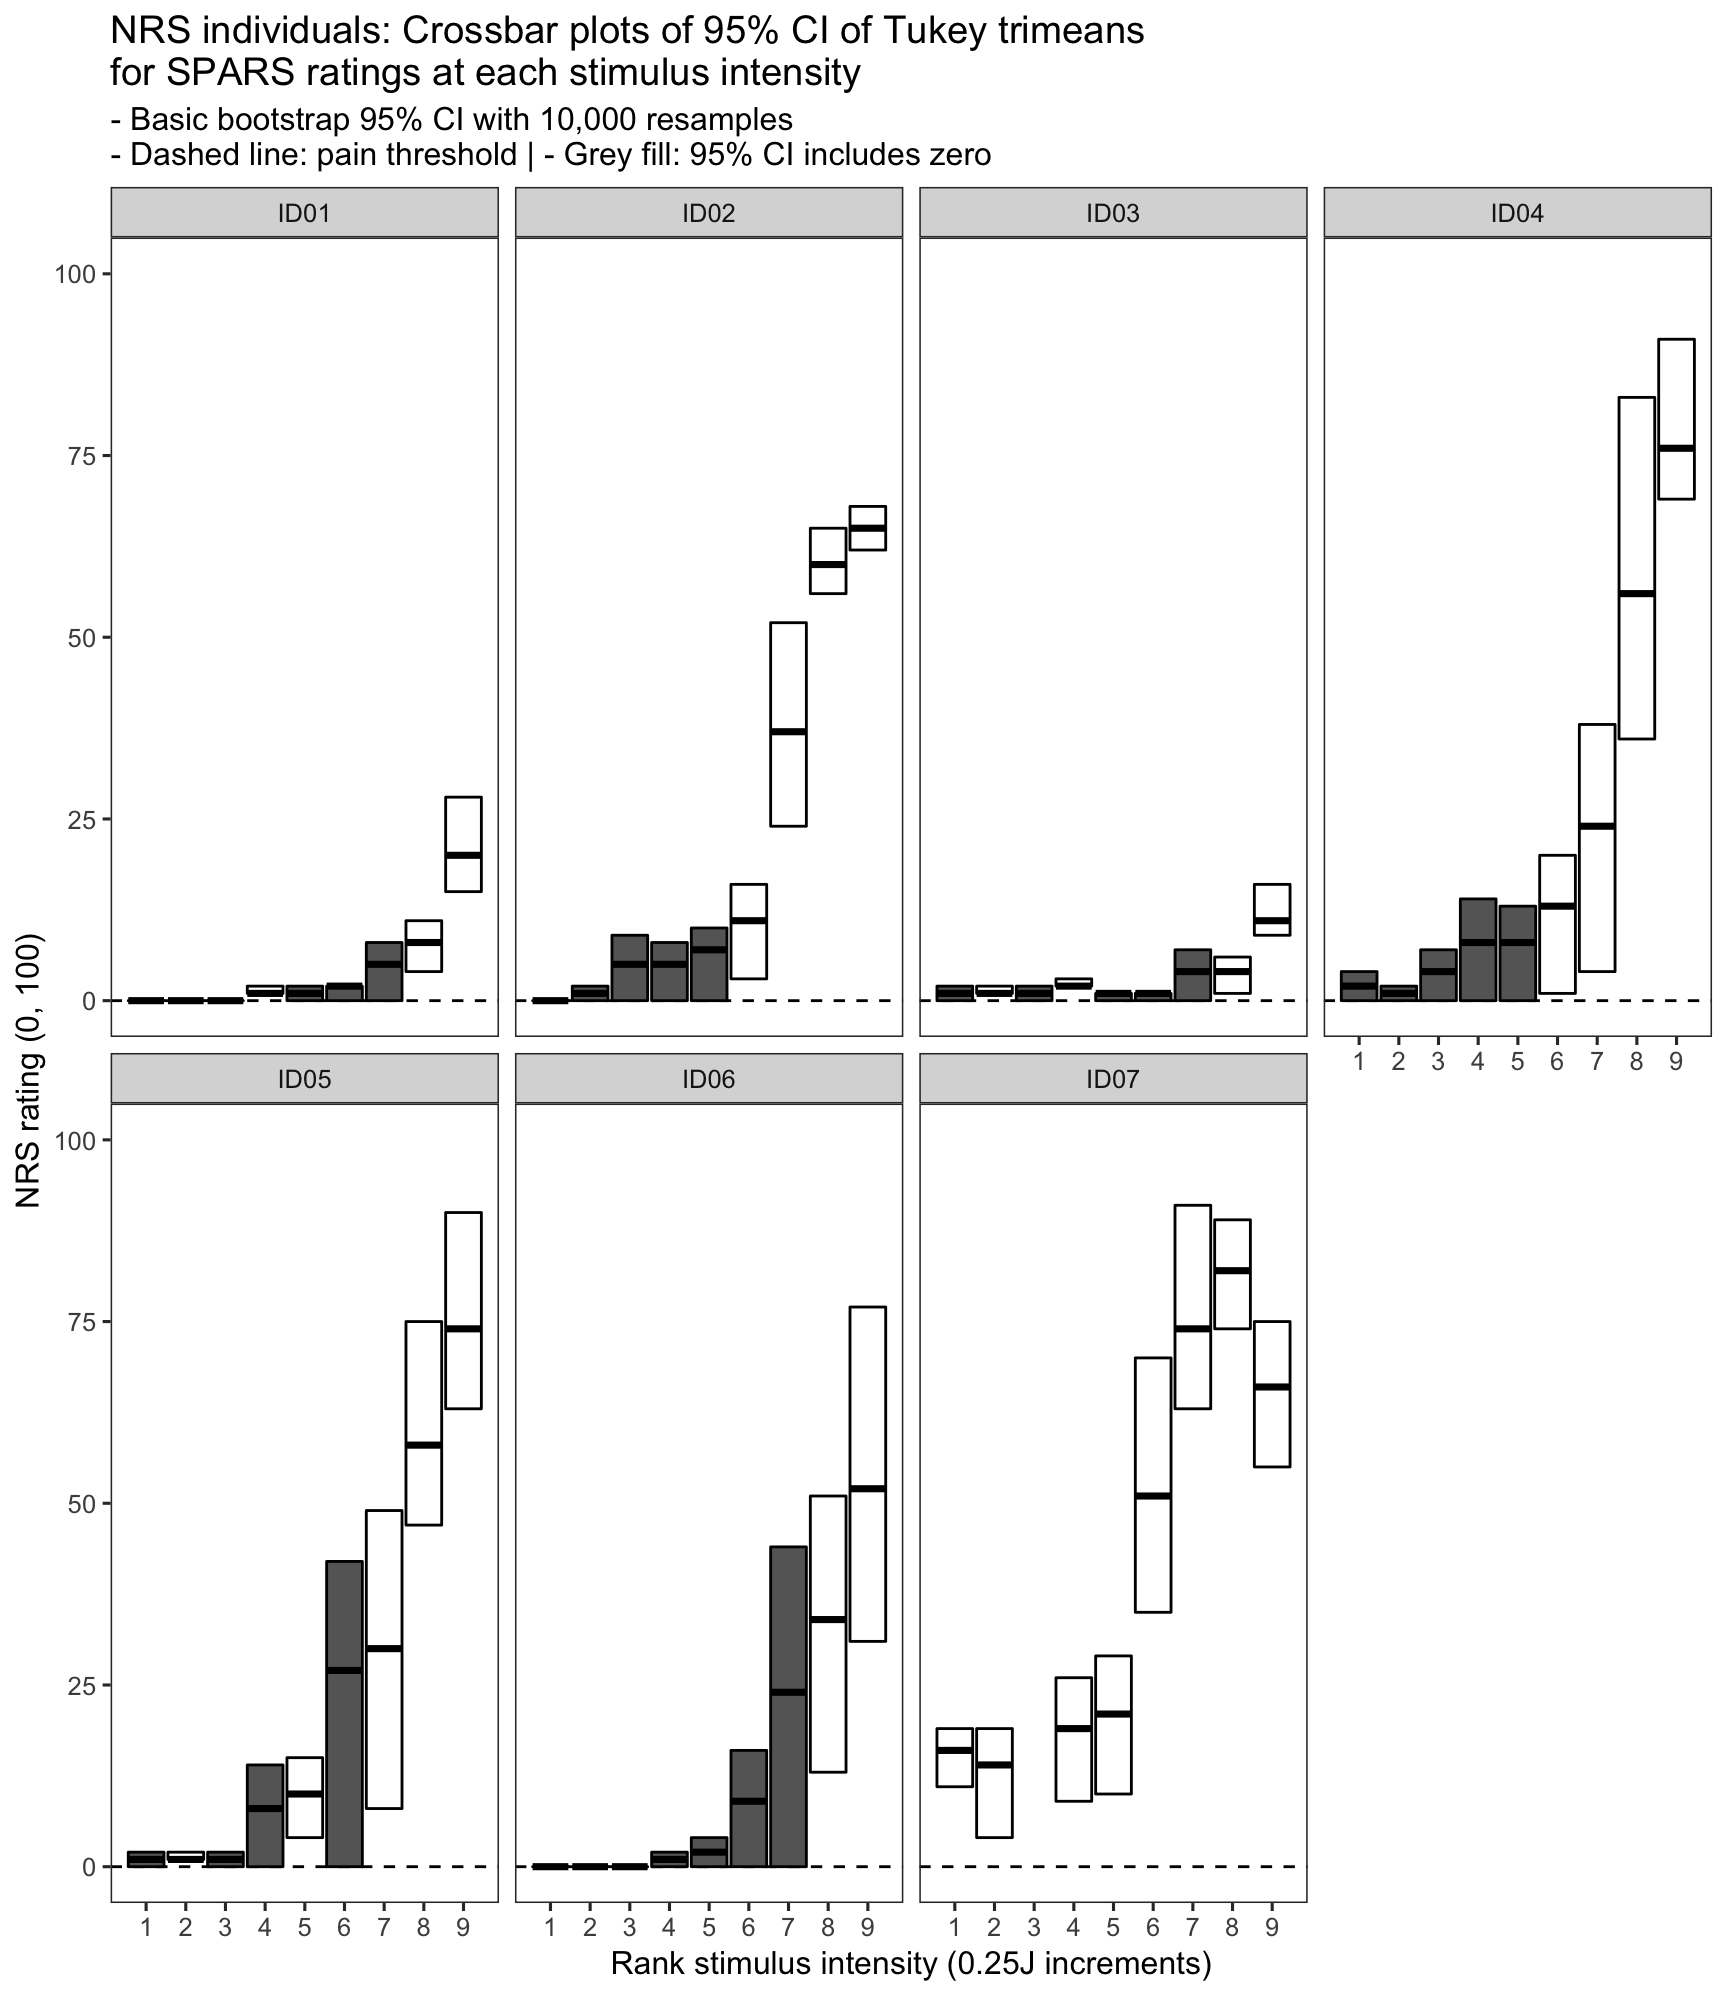
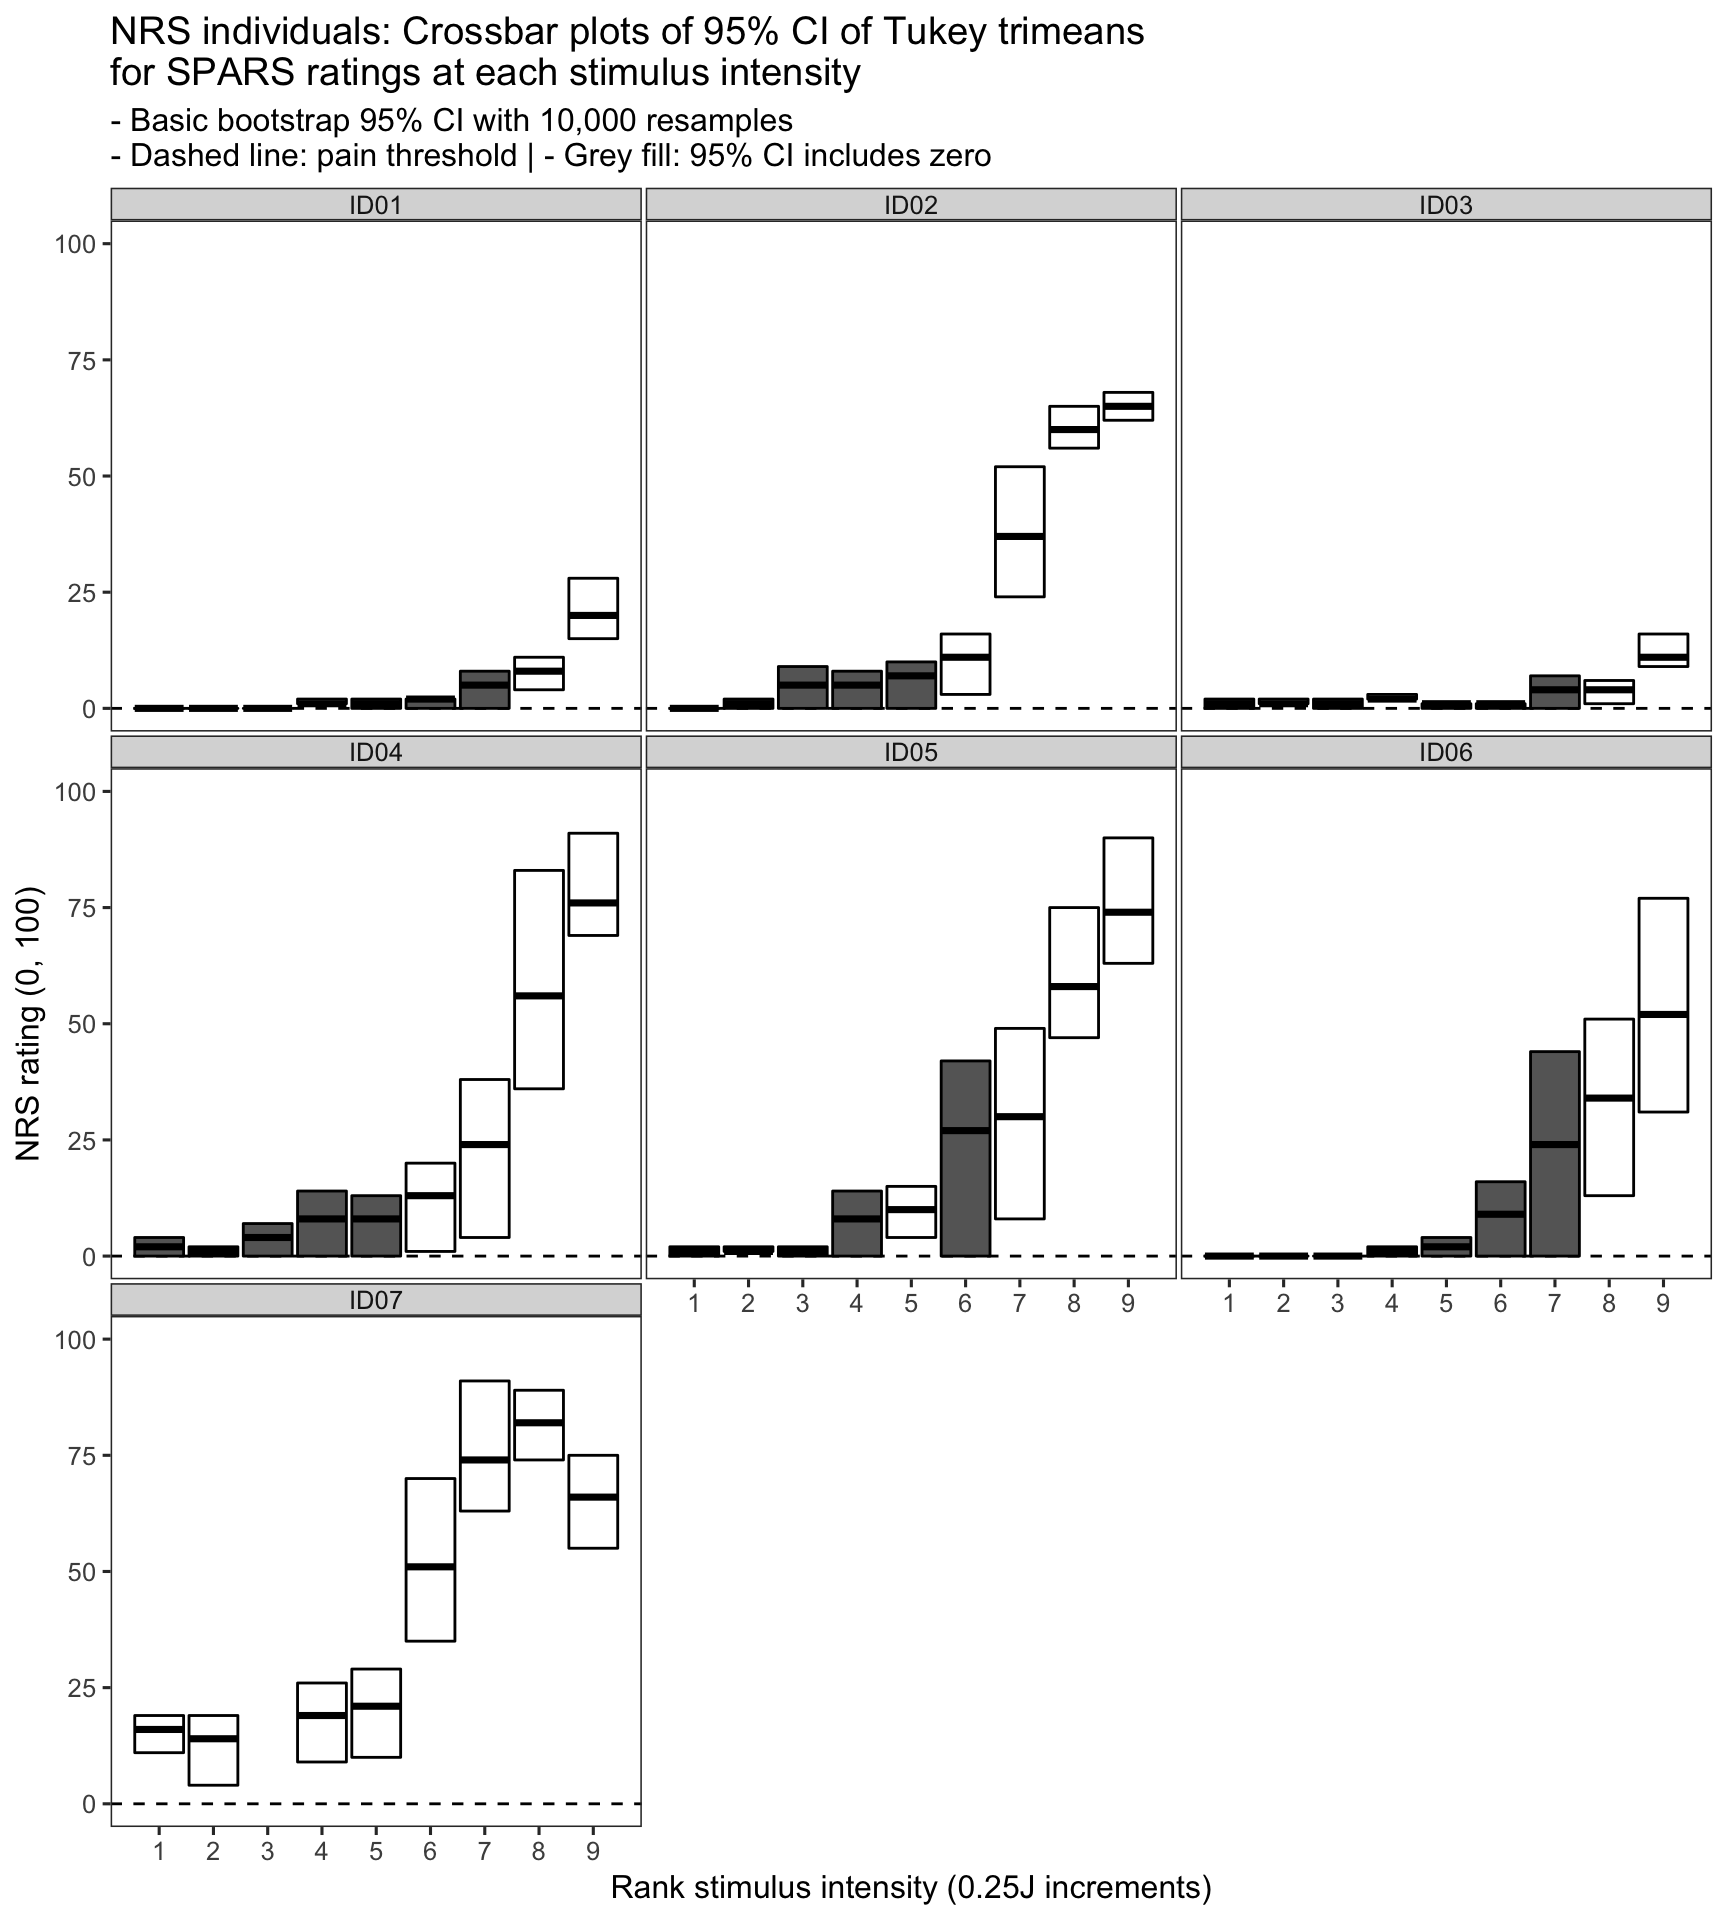
Updated plotting parameters and re-knitted

diff --git a/SPARSB-threshold-width.md b/SPARSB-threshold-width.md
@@ -345,10 +345,7 @@ ggplot(data = data_spars) +
                        breaks = c(-50, -25, 0, 25, 50)) +
     scale_x_continuous(breaks = seq(from = 1, 
                                     to = 9,
-                                    by = 1),
-                       labels = sprintf('%0.2f', round(seq(from = 1, 
-                                                      to = 9,
-                                                      by = 1), 2))) +
+                                    by = 1)) +
     facet_wrap(~ PID, ncol = 3) +
     labs(title = "SPARS individuals: Scatter plots of ratings at each stimulus intensity",
          subtitle = '- Dashed line: pain threshold\n- Colour gradient: stimulus intensity',
@@ -356,7 +353,12 @@ ggplot(data = data_spars) +
          y = 'SPARS rating (-50, 50)') +
     theme(legend.position = 'none',
           panel.grid = element_blank(),
-          axis.text.x = element_text(angle = -90))
+          panel.spacing = unit(0.1, 'lines'),
+          strip.text = element_text(margin = margin(t = 0.1, 
+                                                    b = 0.1, 
+                                                    r = 1, 
+                                                    l = 1, 
+                                                    'lines')))
 ```
 
 <img src="./figures/SPARSB_plots/spars_scatter-1.png" width="864" style="display: block; margin: auto;" />
@@ -386,7 +388,13 @@ ggplot(data = data_nrs) +
          x = 'Rank stimulus intensity (0.25J increments)',
          y = 'NRS rating (0, 100)') +
     theme(legend.position = 'none',
-          panel.grid = element_blank())
+          panel.grid = element_blank(),
+          panel.spacing = unit(0.1, 'lines'),
+          strip.text = element_text(margin = margin(t = 0.1, 
+                                                    b = 0.1, 
+                                                    r = 1, 
+                                                    l = 1, 
+                                                    'lines')))
 ```
 
 <img src="./figures/SPARSB_plots/nrs_scatter-1.png" width="864" style="display: block; margin: auto;" />
@@ -416,7 +424,13 @@ ggplot(data = data_srs) +
          x = 'Rank stimulus intensity (0.25J increments)',
          y = 'SRS rating (-100, 0)') +
     theme(legend.position = 'none',
-          panel.grid = element_blank())
+          panel.grid = element_blank(),
+          panel.spacing = unit(0.1, 'lines'),
+          strip.text = element_text(margin = margin(t = 0.1, 
+                                                    b = 0.1, 
+                                                    r = 1, 
+                                                    l = 1, 
+                                                    'lines')))
 ```
 
 <img src="./figures/SPARSB_plots/srs_scatter-1.png" width="864" style="display: block; margin: auto;" />
@@ -441,13 +455,19 @@ ggplot(data = spars_boot) +
     scale_x_continuous(breaks = seq(from = 1, 
                                     to = 9,
                                     by = 1)) +
-    facet_wrap(~ PID, ncol = 4) +
+    facet_wrap(~ PID, ncol = 3) +
     labs(title = "SPARS individuals: Crossbar plots of 95% CI of Tukey trimeans\nfor SPARS ratings at each stimulus intensity",
          subtitle = '- Basic bootstrap 95% CI with 10,000 resamples\n- Dashed line: pain threshold | - Grey fill: 95% CI includes zero',
          x = 'Rank stimulus intensity (0.25J increments)',
          y = 'SPARS rating (-50, 50)') +
     theme(legend.position = 'none',
-          panel.grid = element_blank())
+          panel.grid = element_blank(),
+          panel.spacing = unit(0.1, 'lines'),
+          strip.text = element_text(margin = margin(t = 0.1, 
+                                                    b = 0.1, 
+                                                    r = 1, 
+                                                    l = 1, 
+                                                    'lines')))
 ```
 
 <img src="./figures/SPARSB_plots/spars_ci-1.png" width="864" style="display: block; margin: auto;" />
@@ -470,13 +490,19 @@ ggplot(data = nrs_boot) +
     scale_x_continuous(breaks = seq(from = 1, 
                                     to = 9,
                                     by = 1)) +
-    facet_wrap(~ PID, ncol = 4) +
+    facet_wrap(~ PID, ncol = 3) +
     labs(title = "NRS individuals: Crossbar plots of 95% CI of Tukey trimeans\nfor SPARS ratings at each stimulus intensity",
          subtitle = '- Basic bootstrap 95% CI with 10,000 resamples\n- Dashed line: pain threshold | - Grey fill: 95% CI includes zero',
          x = 'Rank stimulus intensity (0.25J increments)',
          y = 'NRS rating (0, 100)') +
     theme(legend.position = 'none',
-          panel.grid = element_blank())
+          panel.grid = element_blank(),
+          panel.spacing = unit(0.1, 'lines'),
+          strip.text = element_text(margin = margin(t = 0.1, 
+                                                    b = 0.1, 
+                                                    r = 1, 
+                                                    l = 1, 
+                                                    'lines')))
 ```
 
 <img src="./figures/SPARSB_plots/nrs_ci-1.png" width="864" style="display: block; margin: auto;" />
@@ -499,13 +525,19 @@ ggplot(data = srs_boot) +
     scale_x_continuous(breaks = seq(from = 1, 
                                     to = 9,
                                     by = 1)) +
-    facet_wrap(~ PID, ncol = 4) +
+    facet_wrap(~ PID, ncol = 3) +
     labs(title = "SRS individuals: Crossbar plots of 95% CI of Tukey trimeans\nfor SPARS ratings at each stimulus intensity",
          subtitle = '- Basic bootstrap 95% CI with 10,000 resamples\n- Dashed line: pain threshold | - Grey fill: 95% CI includes zero',
          x = 'Rank stimulus intensity (0.25J increments)',
          y = 'SRS rating (-100, 0)') +
     theme(legend.position = 'none',
-          panel.grid = element_blank())
+          panel.grid = element_blank(),
+          panel.spacing = unit(0.1, 'lines'),
+          strip.text = element_text(margin = margin(t = 0.1, 
+                                                    b = 0.1, 
+                                                    r = 1, 
+                                                    l = 1, 
+                                                    'lines')))
 ```
 
 <img src="./figures/SPARSB_plots/srs_ci-1.png" width="864" style="display: block; margin: auto;" />
